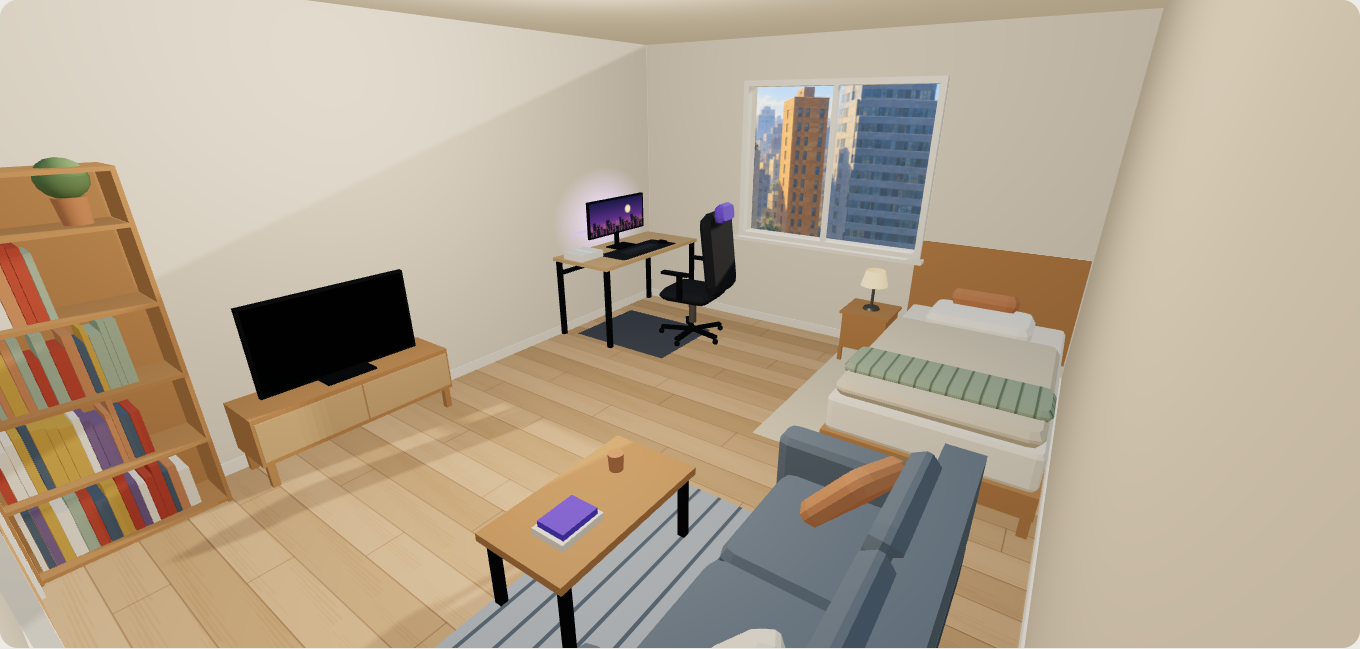
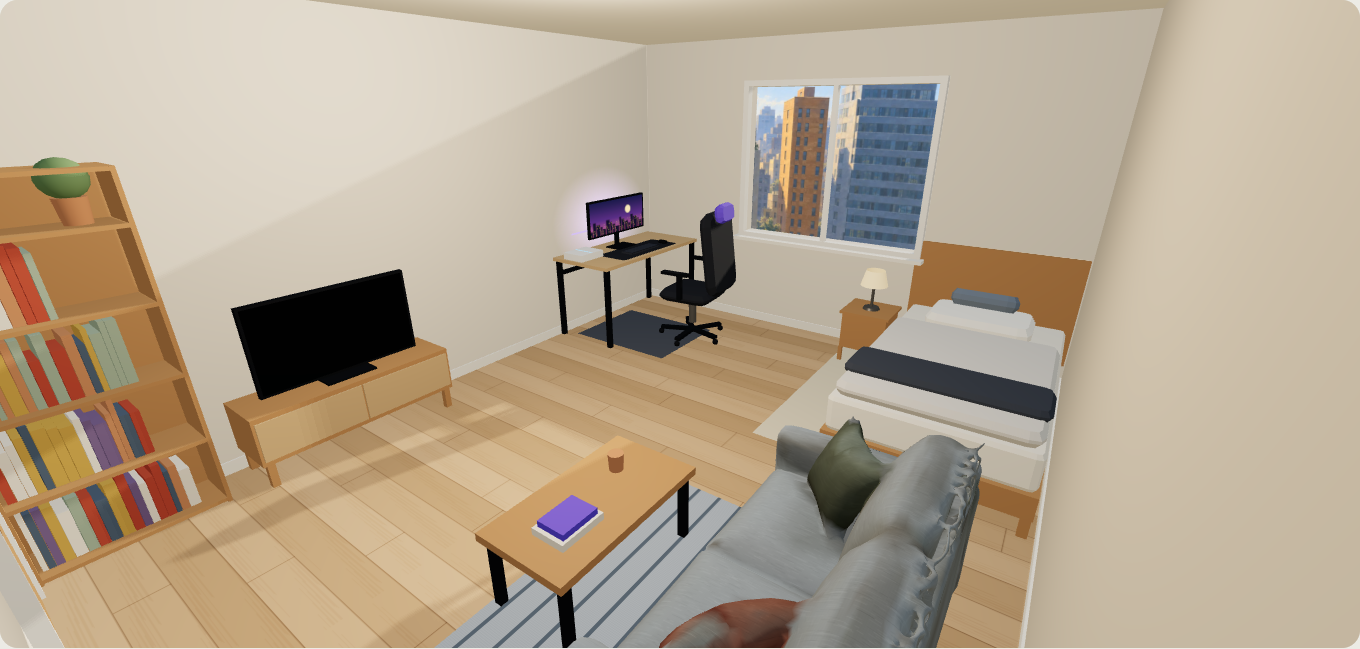
feat(roomverse): Room 02 sofa uses Room 01's image-to-3D model; bedding recoloured to a modern neutral palette
Claude-Session: https://claude.ai/code/session_012u1MfJ91CLJzpAnvL3e1Ga

Changed region(s): [[0.4015, 0.6471, 0.7412, 1.0], [0.6176, 0.5239, 0.8029, 0.6471], [0.6794, 0.4314, 0.7721, 0.4931]]

diff --git a/public/prototype/roomverse-3d/bedroom/bedroom.js b/public/prototype/roomverse-3d/bedroom/bedroom.js
@@ -3,6 +3,7 @@
 // Everything is drawn by code.
 // Units are metres. North is the window wall (z = -ROOM.d / 2); the door is on the south wall.
 import * as THREE from "../vendor/three.module.min.js"; // same self-hosted three.js r160 as the living room
+import { loadSofa } from "./sofa.js?v=1";
 
 export const ROOM = { w: 4.0, d: 5.0, h: 2.6 };
 export const WINDOW = { w: 1.6, h: 1.3, sill: .9, x: 0 };
@@ -210,10 +211,10 @@ export async function start({ stage, lang = "zh" }) {
   const BED = { x: 1.4, z: -1.46, w: 1.1, l: 2.0, top: .48 };
   const oak = new THREE.MeshStandardMaterial({ color: "#b8895a", roughness: .66 });
   const sheetMat = new THREE.MeshStandardMaterial({ color: "#ece4d4", roughness: .95 });
-  const duvetMat = new THREE.MeshStandardMaterial({ map: weaveTexture("#d8cdb8", "#a69878"), roughness: 1 });
-  const throwMat = new THREE.MeshStandardMaterial({ map: weaveTexture("#9fae98", "#6f8068", { stripes: true }), roughness: 1 });
+  const duvetMat = new THREE.MeshStandardMaterial({ map: weaveTexture("#d9d4ca", "#b9b2a3"), roughness: 1 });
+  const throwMat = new THREE.MeshStandardMaterial({ map: weaveTexture("#4b5059", "#33373d"), roughness: 1 });
   const pillowMat = new THREE.MeshStandardMaterial({ color: "#f3eee3", roughness: .95 });
-  const cushionMat = new THREE.MeshStandardMaterial({ color: "#c58a62", roughness: .95 });
+  const cushionMat = new THREE.MeshStandardMaterial({ color: "#7b8794", roughness: .95 });
   const bed = new THREE.Group(); bed.name = "bed"; root.add(bed);
   const part = (geo, mat, name, x, y, z) => {
     const m = new THREE.Mesh(geo, mat); m.name = name; m.position.set(x, y, z); m.castShadow = m.receiveShadow = true; bed.add(m); return m;
@@ -226,7 +227,7 @@ export async function start({ stage, lang = "zh" }) {
   part(softBox(BED.w, .22, BED.l - .02, .03), sheetMat, "bed-mattress", BED.x, .26 + .11, BED.z); // top at 48 cm
   part(box(BED.w + .08, .82, .035), oak, "bed-headboard", BED.x, .6, north - .0225); // 19 cm to 101 cm, against the wall
   part(softBox(BED.w - .04, .09, 1.32, .05), duvetMat, "bed-duvet", BED.x, BED.top + .045, BED.z + .3); // foot to mid-bed
-  part(softBox(BED.w - .02, .07, .34, .04), throwMat, "bed-throw", BED.x, BED.top + .1, BED.z + .62); // folded striped throw across the foot
+  part(softBox(BED.w - .02, .07, .34, .04), throwMat, "bed-throw", BED.x, BED.top + .1, BED.z + .62); // folded charcoal blanket across the foot (plain, no stripes: a modern, quiet look)
   part(softBox(.7, .13, .45, .06), pillowMat, "bed-pillow", BED.x, BED.top + .065, north + .36);
   part(softBox(.45, .12, .3, .05), cushionMat, "bed-cushion", BED.x, BED.top + .19, north + .22).rotation.x = -.28;
   // bedside table (40 x 40 x 45 cm) with a small lamp; the shade glows a little by itself, no extra light needed
@@ -307,16 +308,8 @@ export async function start({ stage, lang = "zh" }) {
   const pillowA = new THREE.MeshStandardMaterial({ color: "#c58a62", roughness: .95 });
   const pillowB = new THREE.MeshStandardMaterial({ color: "#e8dfcf", roughness: .95 });
   const tvScreen = new THREE.MeshStandardMaterial({ color: "#0e1014", roughness: .15, metalness: .3 });
-  const sofa = new THREE.Group(); sofa.name = "sofa"; sofa.position.set(1.3, 0, .9); sofa.rotation.y = -Math.PI / 2; root.add(sofa); // front looks west
-  const sp = hold(sofa);
-  for (const [dx, dz] of [[-1, -1], [1, -1], [-1, 1], [1, 1]]) sp(box(.05, .1, .05), oak, "sofa-leg", dx * .74, .05, dz * .38);
-  sp(box(1.6, .16, .85), sofaDark, "sofa-base", 0, .18, 0); // 10 cm to 26 cm
-  sp(box(1.6, .42, .16), sofaMat, "sofa-backrest", 0, .52, -.345); // top at 73 cm
-  for (const sx of [-1, 1]) sp(softBox(.16, .34, .85, .04), sofaMat, "sofa-arm", sx * .72, .43, 0);
-  for (const sx of [-1, 1]) sp(softBox(.64, .18, .64, .05), sofaMat, "sofa-seat", sx * .32, .35, .05); // top at 44 cm
-  for (const sx of [-1, 1]) { const b = sp(softBox(.64, .12, .44, .06), sofaMat, "sofa-cushion", sx * .32, .58, -.2); b.rotation.x = Math.PI / 2 - .2; } // tops out at 82 cm
-  const pa = sp(softBox(.38, .11, .38, .05), pillowA, "sofa-pillow", -.5, .56, .0); pa.rotation.set(.9, 0, .35);
-  const pb = sp(softBox(.34, .1, .34, .05), pillowB, "sofa-pillow", .55, .56, -.02); pb.rotation.set(.9, 0, -.3);
+  // the sofa is the same image-to-3D model as Room 01 (see sofa.js), re-coloured slate blue-grey, front looking west
+  const sofa = await loadSofa({ width: 1.6, tint: "#9db0c2" }); sofa.name = "sofa"; sofa.position.set(1.3, 0, .9); sofa.rotation.y = -Math.PI / 2; root.add(sofa);
   const ct = new THREE.Group(); ct.name = "coffee-table"; ct.position.set(.3, 0, .9); ct.rotation.y = Math.PI / 2; root.add(ct);
   const cp = hold(ct);
   cp(box(.9, .04, .5), oak, "coffee-table-top", 0, .38, 0);
@@ -387,7 +380,6 @@ export async function start({ stage, lang = "zh" }) {
       desk: { top: new THREE.Box3().setFromObject(root.getObjectByName("desk-top")).max.y, seat: new THREE.Box3().setFromObject(root.getObjectByName("chair-seat")).max.y,
         monitor: (() => { const b = new THREE.Box3().setFromObject(root.getObjectByName("monitor-panel")); return { min: b.min.toArray(), max: b.max.toArray() }; })() },
       lounge: Object.fromEntries(["sofa", "coffee-table", "tv-unit", "bookshelf"].map((n) => { const b = new THREE.Box3().setFromObject(root.getObjectByName(n)); return [n, { min: b.min.toArray(), max: b.max.toArray() }]; })),
-      sofaSeat: new THREE.Box3().setFromObject(root.getObjectByName("sofa-seat")).max.y,
       tvPanel: (() => { const b = new THREE.Box3().setFromObject(root.getObjectByName("tv-panel")); return { min: b.min.toArray(), max: b.max.toArray() }; })(),
       camera: camera.position.toArray(), lights: scene.children.filter((c) => c.isLight).length,
     };

diff --git a/public/prototype/roomverse-3d/bedroom/sofa.js b/public/prototype/roomverse-3d/bedroom/sofa.js
@@ -1,0 +1,62 @@
+// The Room 02 sofa: the same image-to-3D sofa model as Room 01 (../models/sofa.glb), re-coloured for this room.
+// It follows the living room's treatment so both rooms feel equally solid: colours baked in the model, a fine linen weave
+// sampled from three sides (the model has no UVs), and a smoothed top edge (the raw model has a fringe of small spikes).
+import * as THREE from "../vendor/three.module.min.js";
+import { GLTFLoader } from "../vendor/GLTFLoader.js";
+
+function weaveTexture() {
+  const c = document.createElement("canvas"); c.width = c.height = 256;
+  const ctx = c.getContext("2d"), w = 256, h = 256;
+  let seed = 11; const rnd = () => (seed = (seed * 16807) % 2147483647) / 2147483647;
+  ctx.fillStyle = "rgb(128,0,0)"; ctx.fillRect(0, 0, w, h);
+  for (let i = 0; i < w; i += 3) { ctx.fillStyle = "rgba(255,0,0,.10)"; ctx.fillRect(i, 0, 1, h); ctx.fillStyle = "rgba(0,0,0,.10)"; ctx.fillRect(0, i, w, 1); }
+  for (let i = 0; i < 260; i++) {
+    const light = rnd() < .5; ctx.fillStyle = light ? `rgba(255,0,0,${.25 + rnd() * .3})` : `rgba(0,0,0,${.2 + rnd() * .25})`;
+    const x = rnd() * w, y = Math.floor(rnd() * h / 3) * 3, len = 8 + rnd() * 40; ctx.fillRect(x, y, len, 1.5 + rnd()); if (x + len > w) ctx.fillRect(x - w, y, len, 1.5);
+  }
+  const t = new THREE.CanvasTexture(c); t.wrapS = t.wrapT = THREE.RepeatWrapping; t.colorSpace = THREE.NoColorSpace; t.anisotropy = 4;
+  return t;
+}
+
+function smoothTopEdge(obj) {
+  obj.traverse((m) => {
+    if (!m.isMesh || !m.geometry.index) return;
+    const g = m.geometry, pos = g.attributes.position, idx = g.index.array, n = pos.count;
+    let lo = Infinity, hi = -Infinity;
+    for (let i = 0; i < n; i++) { const y = pos.getY(i); lo = Math.min(lo, y); hi = Math.max(hi, y); }
+    const cut = lo + (hi - lo) * .88, nb = Array.from({ length: n }, () => new Set());
+    for (let i = 0; i < idx.length; i += 3) { const a = idx[i], b = idx[i + 1], c = idx[i + 2]; nb[a].add(b).add(c); nb[b].add(a).add(c); nb[c].add(a).add(b); }
+    const top = []; for (let i = 0; i < n; i++) if (pos.getY(i) > cut) top.push(i);
+    for (let pass = 0; pass < 7; pass++) {
+      const next = top.map((i) => { let x = 0, y = 0, z = 0; for (const j of nb[i]) { x += pos.getX(j); y += pos.getY(j); z += pos.getZ(j); } const k = nb[i].size || 1; return [x / k, y / k, z / k]; });
+      top.forEach((i, t) => pos.setXYZ(i, (pos.getX(i) + next[t][0]) / 2, (pos.getY(i) + next[t][1]) / 2, (pos.getZ(i) + next[t][2]) / 2));
+    }
+    pos.needsUpdate = true;
+  });
+}
+
+// Returns a Group holding the sofa, `width` metres wide (its front looks along +z), standing on y = 0 and centred on x = z = 0.
+export async function loadSofa({ width = 1.6, tint = "#ffffff" } = {}) {
+  const gltf = await new GLTFLoader().loadAsync(new URL("../models/sofa.glb", import.meta.url).href);
+  const obj = gltf.scene;
+  const size = new THREE.Box3().setFromObject(obj).getSize(new THREE.Vector3());
+  obj.scale.multiplyScalar(width / size.x);
+  const b = new THREE.Box3().setFromObject(obj), c = b.getCenter(new THREE.Vector3());
+  obj.position.set(-c.x, -b.min.y, -c.z);
+  obj.updateMatrixWorld(true);
+  smoothTopEdge(obj);
+  const weave = weaveTexture();
+  const mat = new THREE.MeshStandardMaterial({ vertexColors: true, roughness: .92, color: tint });
+  mat.onBeforeCompile = (sh) => {
+    sh.uniforms.weave = { value: weave };
+    sh.vertexShader = "varying vec3 vWP; varying vec3 vWN;\n" + sh.vertexShader.replace("#include <project_vertex>", "#include <project_vertex>\nvWP = (modelMatrix * vec4(transformed, 1.)).xyz; vWN = normalize(mat3(modelMatrix) * objectNormal);");
+    sh.fragmentShader = "uniform sampler2D weave; varying vec3 vWP; varying vec3 vWN;\n" + sh.fragmentShader.replace("#include <color_fragment>", `#include <color_fragment>
+      vec3 bw = pow(abs(normalize(vWN)), vec3(4.)); bw /= bw.x + bw.y + bw.z;
+      float s = 3.5;
+      float wv = texture2D(weave, vWP.zy * s).r * bw.x + texture2D(weave, vWP.xz * s).r * bw.y + texture2D(weave, vWP.xy * s).r * bw.z;
+      diffuseColor.rgb *= .75 + .5 * wv;`);
+  };
+  obj.traverse((m) => { if (!m.isMesh) return; m.geometry.computeVertexNormals(); m.castShadow = true; m.receiveShadow = true; m.material = mat; });
+  const g = new THREE.Group(); g.add(obj);
+  return g;
+}

diff --git a/tests/roomverse-bedroom.spec.js b/tests/roomverse-bedroom.spec.js
@@ -101,10 +101,11 @@ test("the work zone: desk at 75 cm, ultrawide monitor above it, chair seat at 48
 
 test("the lounge: real sofa and table heights, 33 cm gap, TV on a low console, shelf under the ceiling, nothing crosses the bed or the door", async ({ page }) => {
   await enter(page);
-  const { lounge, sofaSeat, tvPanel, vertices } = await page.evaluate(() => window.__bedroom.info());
-  expect(sofaSeat).toBeCloseTo(.44, 2);
+  const { lounge, tvPanel, vertices } = await page.evaluate(() => window.__bedroom.info());
   const sofa = lounge.sofa, table = lounge["coffee-table"];
-  expect(sofa.max[1]).toBeLessThan(.86); // back at about 82 cm
+  expect(sofa.max[0] - sofa.min[0]).toBeGreaterThan(.7); expect(sofa.max[0] - sofa.min[0]).toBeLessThan(1.05); // seat depth plus back, under a metre
+  expect(sofa.max[2] - sofa.min[2]).toBeCloseTo(1.6, 1); // a 2-seater, 160 cm wide
+  expect(sofa.max[1]).toBeGreaterThan(.7); expect(sofa.max[1]).toBeLessThan(1.0); // back at about 80-90 cm
   expect(sofa.min[0] - table.max[0]).toBeGreaterThan(.2); // room to walk and to put legs
   expect(sofa.min[0] - table.max[0]).toBeLessThan(.5);
   expect(table.max[1]).toBeLessThan(.5);

diff --git a/public/prototype/roomverse-3d/bedroom/page.js b/public/prototype/roomverse-3d/bedroom/page.js
@@ -29,7 +29,7 @@ $("lang").onclick = () => { lang = lang === "zh" ? "en" : "zh"; const u = new UR
 $("enter").onclick = async () => {
   $("poster").hidden = true; $("status").hidden = false; $("status").textContent = COPY[lang].loading;
   try {
-    const { start } = await import("./bedroom.js?v=4");
+    const { start } = await import("./bedroom.js?v=6");
     room = await start({ stage: $("stage"), lang });
     $("status").hidden = true;
     window.__bedroom = room; // test hook
